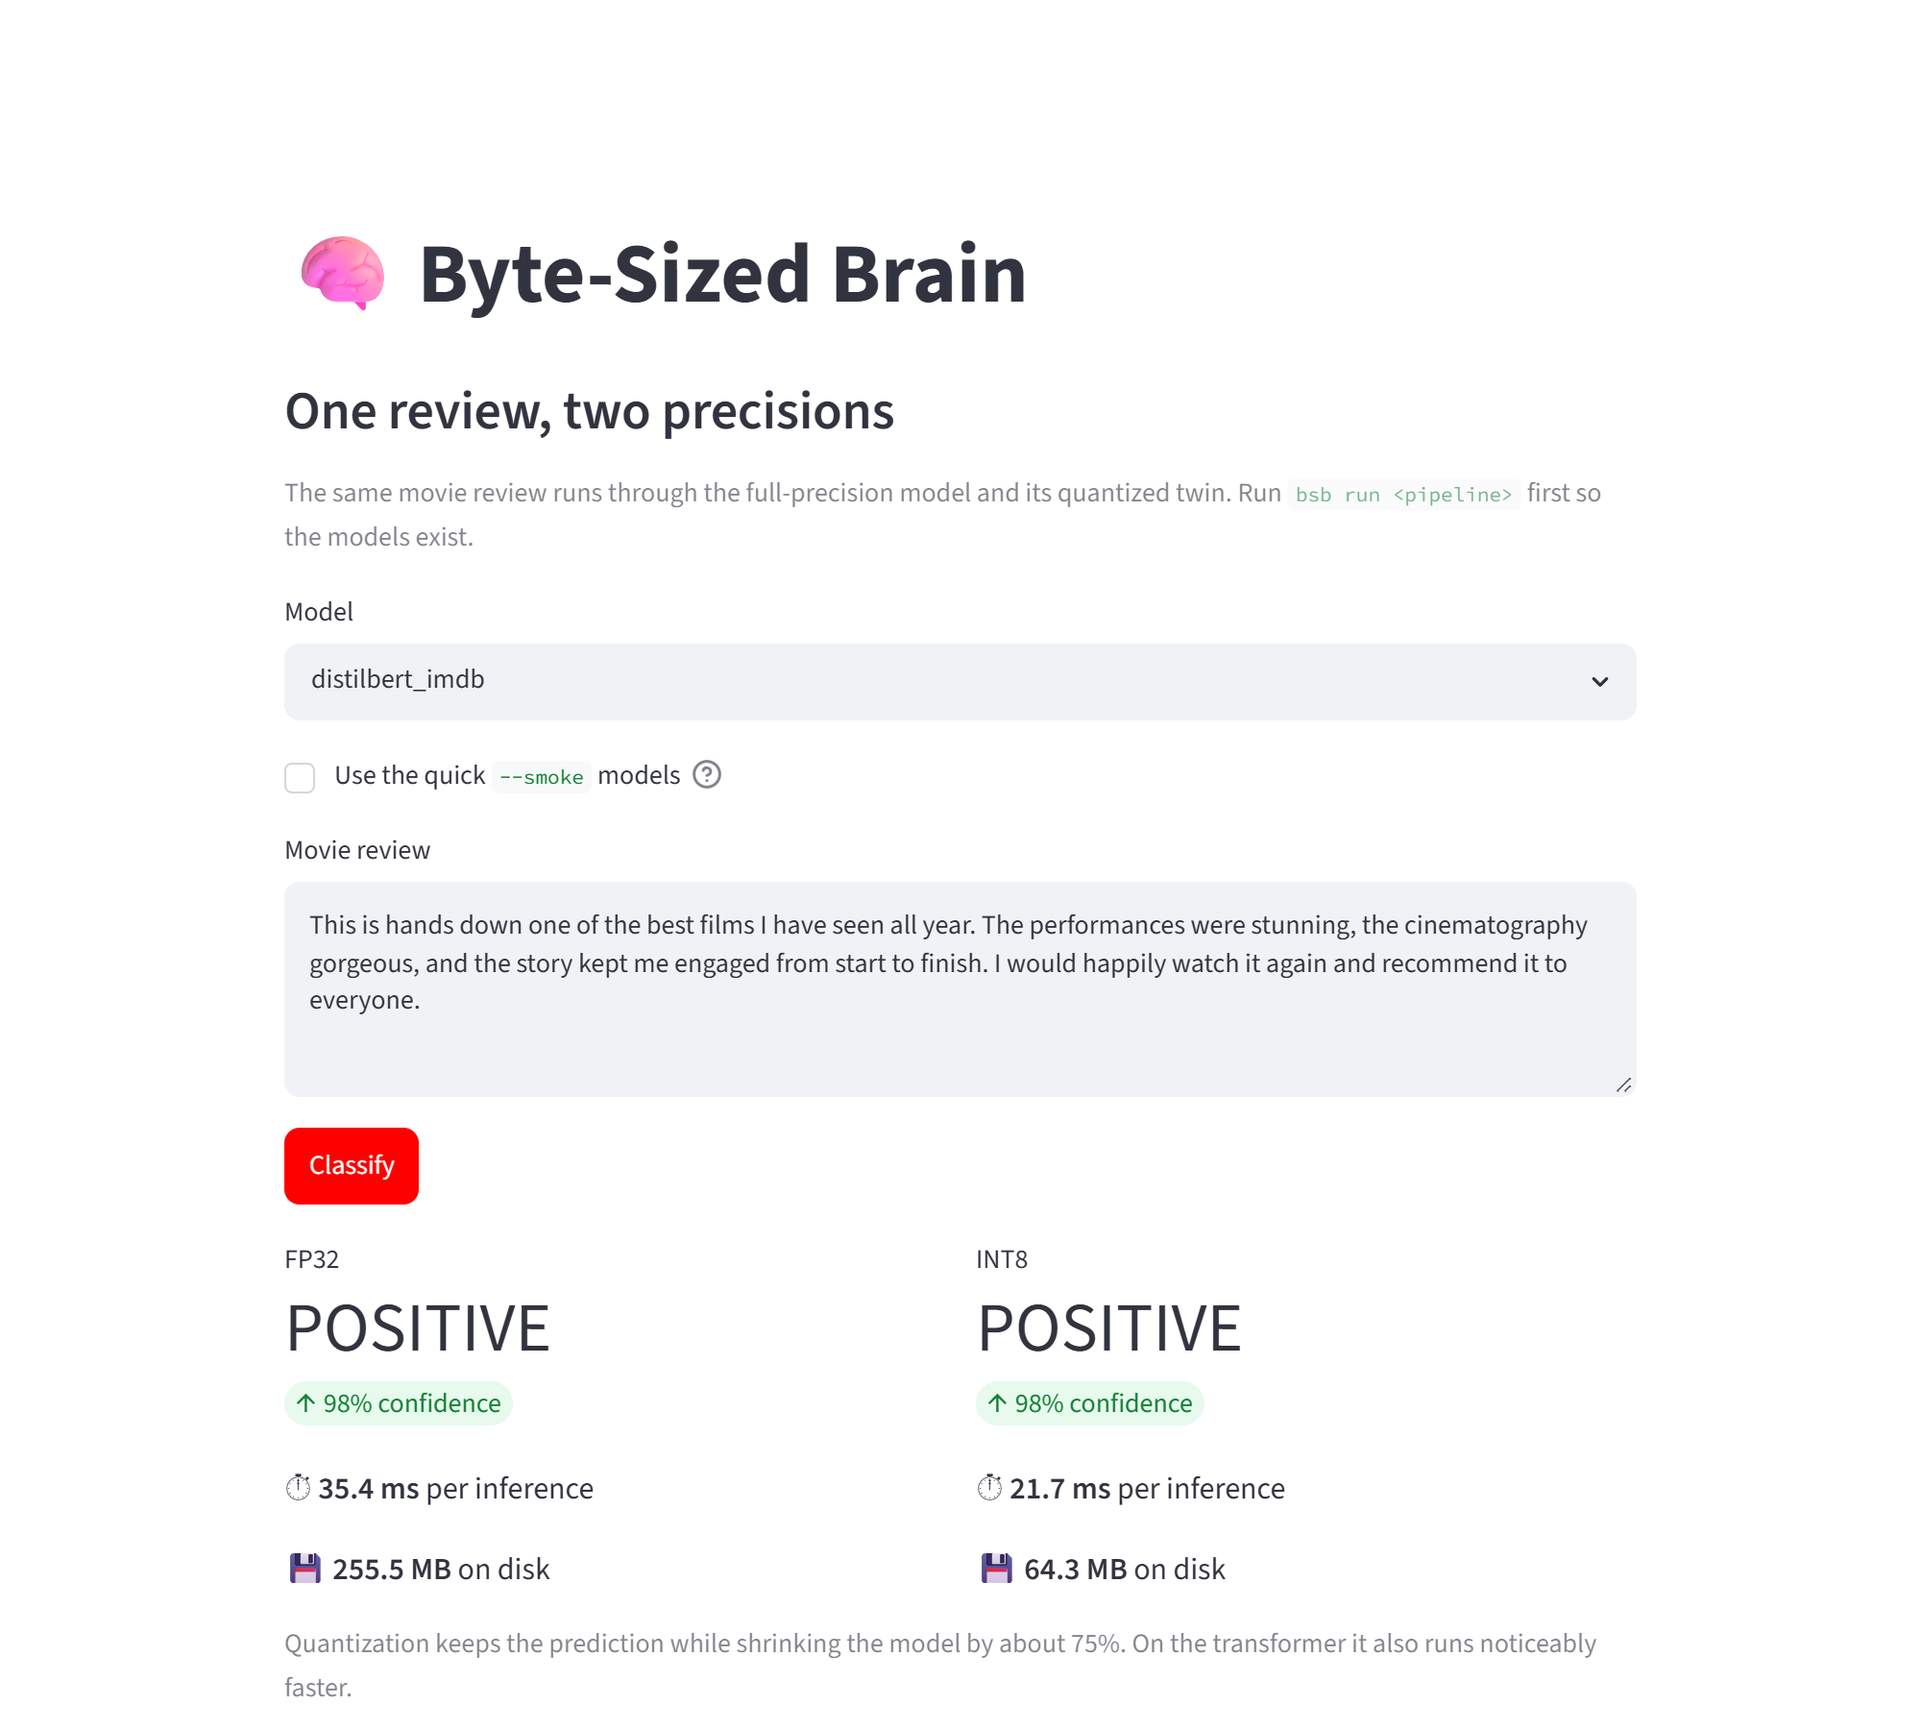
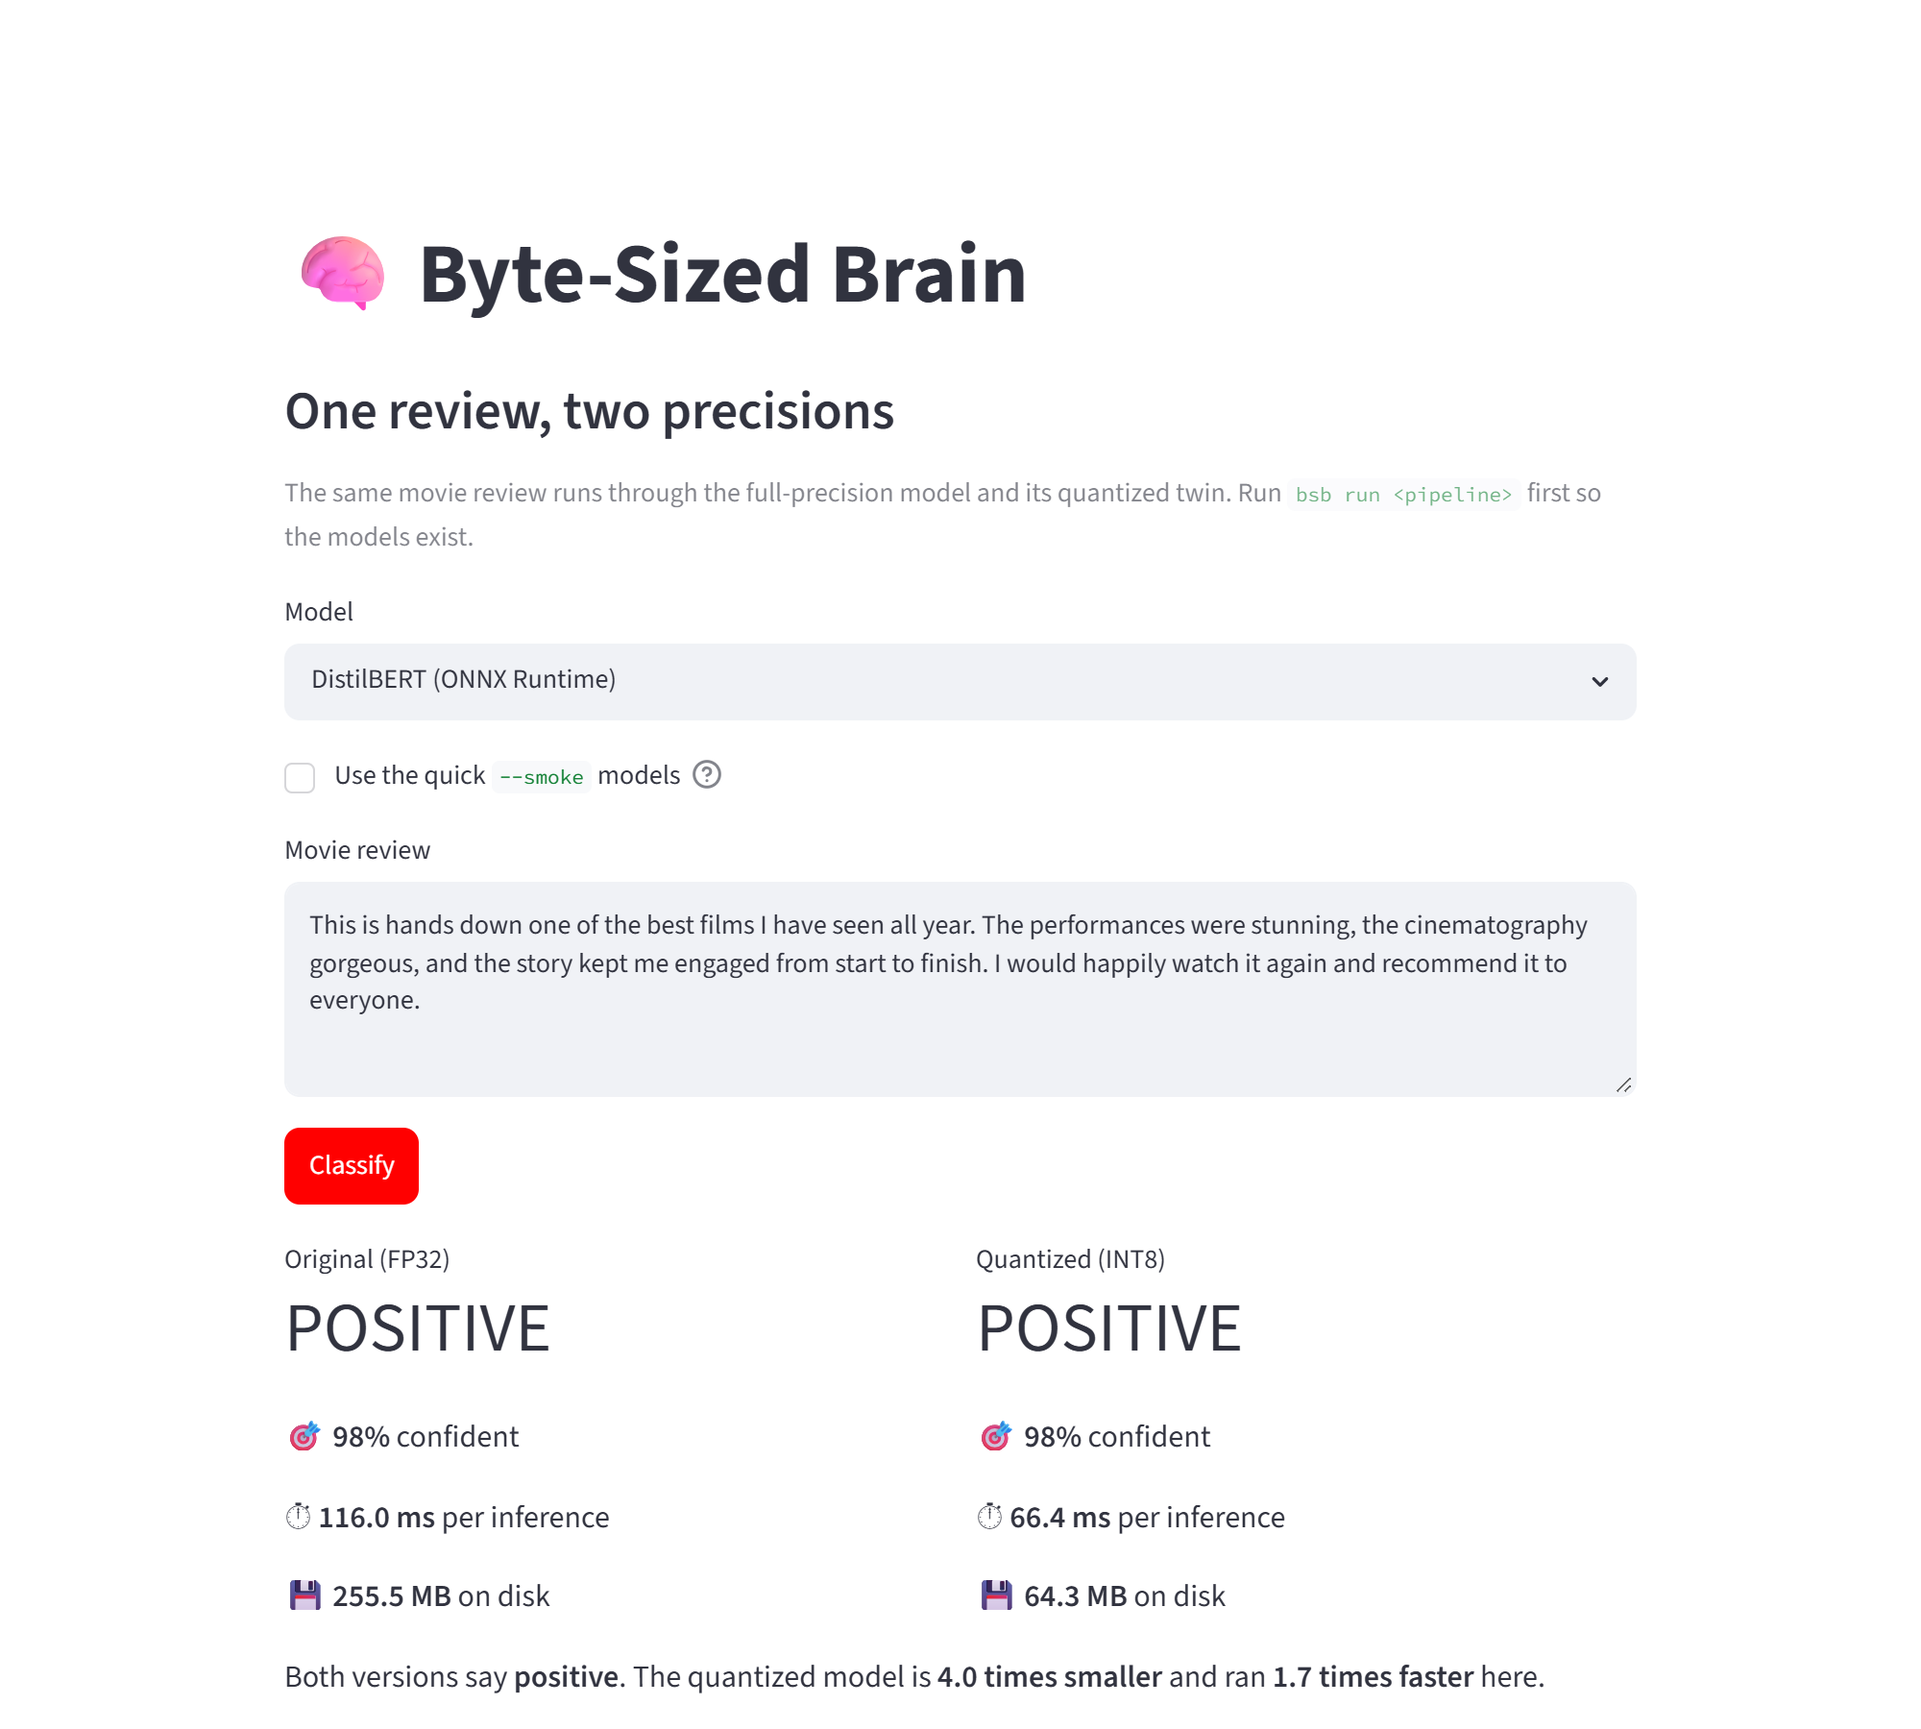
Fix the docs deploy gate and address the verification findings
- Deploy the documentation site from main. The deploy step was still
  gated on the old branch name, so the site had not updated since the
  rename.
- Run the ONNX round trip, memory probe and hosted-demo tests in CI,
  where they were silently skipped, and fail the job on any skip.
- Streamlit demo: describe the result it actually got, cache the loaded
  models between clicks and show readable model names.
- Treat timing differences under 15 percent as 'about the same' in the
  README table, matching the run-to-run variation.
- Show the hosted demo screenshot next to its link, and explain why the
  CLI demo timings differ from the benchmark table.

diff --git a/demo/app.py b/demo/app.py
@@ -1,9 +1,9 @@
-"""Streamlit FP32-vs-INT8 sentiment demo.
+"""Streamlit demo: one movie review, classified by a model and its quantized version.
 
 Usage::
 
     pip install -e ".[all,demo]"
-    bsb run distilbert_imdb          # produce the artifacts the demo loads
+    bsb run distilbert_imdb          # produce the models the demo loads
     streamlit run demo/app.py
 """
 
@@ -11,9 +11,43 @@ from __future__ import annotations
 
 import streamlit as st
 
-from byte_sized_brain.demo import DEFAULT_TEXTS, SUPPORTED, run_demo
+from byte_sized_brain.demo import DEFAULT_TEXTS, SUPPORTED, DemoRow, run_demo
 
-st.set_page_config(page_title="Byte-Sized Brain: FP32 vs INT8", page_icon="🧠")
+MODEL_NAMES = {
+    "distilbert_imdb": "DistilBERT (ONNX Runtime)",
+    "rnn_imdb": "LSTM (TensorFlow Lite)",
+}
+VARIANT_NAMES = {
+    "fp32": "Original (FP32)",
+    "int8": "Quantized (INT8)",
+    "dynamic_range": "Quantized (INT8 weights)",
+}
+
+
+def summarize(rows: list[DemoRow]) -> str:
+    """One sentence describing what this run actually showed."""
+    if len(rows) < 2:
+        return "Only one version of this model was found, so there is nothing to compare."
+    original, quantized = rows[0], rows[1]
+    verdict = (
+        f"Both versions say **{original.prediction.lower()}**."
+        if original.prediction == quantized.prediction
+        else f"The versions disagree. The original says **{original.prediction.lower()}** "
+        f"and the quantized one says **{quantized.prediction.lower()}**, which can happen "
+        "on a borderline review."
+    )
+    smaller = original.size_mb / quantized.size_mb
+    speed = original.latency_ms / quantized.latency_ms
+    if speed >= 1.15:
+        pace = f"ran **{speed:.1f} times faster**"
+    elif speed <= 0.85:
+        pace = f"ran **{1 / speed:.1f} times slower**"
+    else:
+        pace = "took **about the same time**"
+    return f"{verdict} The quantized model is **{smaller:.1f} times smaller** and {pace} here."
+
+
+st.set_page_config(page_title="Byte-Sized Brain demo", page_icon="🧠")
 st.title("🧠 Byte-Sized Brain")
 st.subheader("One review, two precisions")
 st.caption(
@@ -21,7 +55,7 @@ st.caption(
     "twin. Run `bsb run <pipeline>` first so the models exist."
 )
 
-pipeline = st.selectbox("Model", SUPPORTED, index=0)
+pipeline = st.selectbox("Model", SUPPORTED, index=0, format_func=lambda p: MODEL_NAMES.get(p, p))
 smoke = st.checkbox(
     "Use the quick `--smoke` models",
     value=False,
@@ -34,17 +68,17 @@ if st.button("Classify", type="primary"):
         st.warning("Type a review first.")
         st.stop()
     try:
-        rows = run_demo(pipeline, [text], smoke=smoke)
+        with st.spinner("Running both versions..."):
+            rows = run_demo(pipeline, [text], smoke=smoke)
     except FileNotFoundError as exc:
         st.error(str(exc))
         st.stop()
 
     for col, row in zip(st.columns(len(rows)), rows, strict=True):
         with col:
-            st.metric(row.variant.upper(), row.prediction, f"{row.confidence:.0%} confidence")
+            st.metric(VARIANT_NAMES.get(row.variant, row.variant), row.prediction)
+            st.write(f"🎯 **{row.confidence:.0%}** confident")
             st.write(f"⏱ **{row.latency_ms:.1f} ms** per inference")
             st.write(f"💾 **{row.size_mb:.1f} MB** on disk")
-    st.caption(
-        "Quantization keeps the prediction while shrinking the model by about 75%. "
-        "On the transformer it also runs noticeably faster."
-    )
+    st.markdown(summarize(rows))
+    st.caption("Timings are the fastest of several runs and vary with machine load.")

diff --git a/src/byte_sized_brain/demo.py b/src/byte_sized_brain/demo.py
@@ -11,6 +11,7 @@ Requires the artifacts to exist (run ``bsb run <pipeline>`` first, or
 
 from __future__ import annotations
 
+import functools
 import time
 from dataclasses import dataclass
 
@@ -86,15 +87,40 @@ def _encode_imdb(text: str, word_index: dict[str, int], num_words: int, max_len:
     return pad_sequences([tokens], maxlen=max_len).astype(np.float32)[0]
 
 
-def _demo_distilbert(cfg: PipelineConfig, paths: Paths, texts: list[str]) -> list[DemoRow]:
-    from transformers import AutoTokenizer
-
+@functools.lru_cache(maxsize=8)
+def _onnx_runner(path: str):
     from .benchmark import OnnxRunner
 
-    tokenizer = AutoTokenizer.from_pretrained(paths.fp32_source)
+    return OnnxRunner(path)
+
+
+@functools.lru_cache(maxsize=8)
+def _tflite_runner(path: str):
+    from .benchmark import TFLiteRunner
+
+    return TFLiteRunner(path)
+
+
+@functools.lru_cache(maxsize=4)
+def _tokenizer(model_dir: str):
+    from transformers import AutoTokenizer
+
+    return AutoTokenizer.from_pretrained(model_dir)
+
+
+@functools.lru_cache(maxsize=1)
+def _word_index() -> dict[str, int]:
+    from tensorflow.keras.datasets import imdb
+
+    return imdb.get_word_index()
+
+
+def _demo_distilbert(cfg: PipelineConfig, paths: Paths, texts: list[str]) -> list[DemoRow]:
+    # Loaders are cached, so the web demo does not reload the models on every click.
+    tokenizer = _tokenizer(str(paths.fp32_source))
     seq_len = cfg.data.max_len or 128
     variants = [("fp32", paths.onnx("fp32")), ("int8", paths.onnx("int8"))]
-    runners = {name: (OnnxRunner(p), size_mb(p)) for name, p in variants if p.exists()}
+    runners = {name: (_onnx_runner(str(p)), size_mb(p)) for name, p in variants if p.exists()}
 
     rows: list[DemoRow] = []
     for text in texts:
@@ -114,16 +140,12 @@ def _demo_distilbert(cfg: PipelineConfig, paths: Paths, texts: list[str]) -> lis
 
 
 def _demo_rnn(cfg: PipelineConfig, paths: Paths, texts: list[str]) -> list[DemoRow]:
-    from tensorflow.keras.datasets import imdb
-
-    from .benchmark import TFLiteRunner
-
     num_words = cfg.data.num_words or 10000
     max_len = cfg.data.max_len or 200
-    word_index = imdb.get_word_index()
+    word_index = _word_index()
 
     variants = [("fp32", paths.tflite("fp32")), ("dynamic_range", paths.tflite("dynamic_range"))]
-    runners = {name: (TFLiteRunner(p), size_mb(p)) for name, p in variants if p.exists()}
+    runners = {name: (_tflite_runner(str(p)), size_mb(p)) for name, p in variants if p.exists()}
 
     rows: list[DemoRow] = []
     for text in texts:

diff --git a/src/byte_sized_brain/report.py b/src/byte_sized_brain/report.py
@@ -137,11 +137,15 @@ def _fmt_ms(x: float) -> str:
 
 
 def _speed_words(fp32_ms: float, q_ms: float) -> str:
-    """'1.7× faster', '1.5× slower' or 'about the same' (within 5 percent)."""
+    """'1.7× faster', '1.5× slower' or 'about the same'.
+
+    Anything within 15 percent counts as the same, because single-run timings on a
+    laptop move by that much from one run to the next.
+    """
     if not fp32_ms or not q_ms:
         return "n/a"
     ratio = fp32_ms / q_ms
-    if 0.95 <= ratio <= 1.05:
+    if 0.85 <= ratio <= 1.15:
         return "about the same"
     return f"{ratio:.1f}× faster" if ratio > 1 else f"{1 / ratio:.1f}× slower"
 

diff --git a/src/byte_sized_brain/models/distilbert.py b/src/byte_sized_brain/models/distilbert.py
@@ -1,6 +1,6 @@
 """DistilBERT fine-tuning for IMDB sentiment.
 
-Targets transformers 4.45+ where ``evaluation_strategy`` is now ``eval_strategy``
+Targets transformers 4.46+ where ``evaluation_strategy`` is now ``eval_strategy``
 and ``Trainer(tokenizer=...)`` is now ``processing_class=...``. ``fp16`` is forced
 off (this runs on CPU), TensorBoard logging is disabled (``report_to=[]``) so no
 ``runs/`` scratch is created, and the final model + tokenizer are saved to

diff --git a/README.md b/README.md
@@ -43,7 +43,8 @@ shows where that loss comes from and how to avoid nearly all of it.
 
 **Speed depended on the model.** On a laptop processor, DistilBERT and the tiny
 handwriting reader both answered about 1.8 times faster. The LSTM and the photo
-classifier were about 10 percent slower. Smaller does not automatically mean faster.
+classifier took about the same time as before (within the normal run-to-run
+variation). Smaller does not automatically mean faster.
 
 Each row below compares the original model with its shrunken version.
 
@@ -52,8 +53,8 @@ Each row below compares the original model with its shrunken version.
 | Model (dataset) | Method | Size on disk | Accuracy | Time per input | Memory |
 | --- | --- | --- | --- | --- | --- |
 | Digit reader (MNIST) | Static INT8 | 0.39 → 0.10 MB (74% smaller) | 97.0% → 97.0% (no change) | 0.022 → 0.012 ms (1.8× faster) | 1.97 → 1.39 MB |
-| Photo classifier (CIFAR-10) | Static INT8 | 8.52 → 2.62 MB (69% smaller) | 85.4% → 68.1% (-17.3 pts) | 1.99 → 2.14 ms (1.1× slower) | 20.1 → 7.53 MB |
-| Review sentiment, LSTM (IMDB) | Dynamic INT8 | 2.50 → 0.63 MB (75% smaller) | 85.0% → 85.0% (no change) | 0.54 → 0.61 ms (1.1× slower) | 4.01 → 2.19 MB |
+| Photo classifier (CIFAR-10) | Static INT8 | 8.52 → 2.62 MB (69% smaller) | 85.4% → 68.1% (-17.3 pts) | 1.99 → 2.14 ms (about the same) | 20.1 → 7.53 MB |
+| Review sentiment, LSTM (IMDB) | Dynamic INT8 | 2.50 → 0.63 MB (75% smaller) | 85.0% → 85.0% (no change) | 0.54 → 0.61 ms (about the same) | 4.01 → 2.19 MB |
 | Review sentiment, DistilBERT (IMDB) | Dynamic INT8 | 255.5 → 64.3 MB (75% smaller) | 84.6% → 84.0% (-0.6 pts) | 99.1 → 54.5 ms (1.8× faster) | 275.4 → 88.0 MB |
 
 _Each cell reads original (FP32) → quantized (INT8). Time is the average for one input on a native x86_64 CPU, and memory is what the process gains by loading and running the model, so lower is better for both. Generated by `bsb report` from `benchmarks/results/*.csv`, which also record p50 and p95 latency. The per-variant table is in [docs/report.md](docs/report.md)._
@@ -93,7 +94,7 @@ shows each one's verdict, confidence, speed and size. It is hosted on a free Hug
 Face server that sleeps when nobody is using it, so the first visit can take a minute
 to wake up.
 
-![One movie review classified by the original and the 8-bit model](docs/images/streamlit_demo.png)
+![The hosted demo classifying one review with the original and the 8-bit model](docs/images/hosted_demo.png)
 
 ## The four models
 
@@ -176,9 +177,16 @@ bsb demo distilbert_imdb          # built-in example reviews, or pass your own i
   int8          POSITIVE    97.5%    19.78ms   64.27MB
 ```
 
-The demo shows the best of several timings for a single review, so its numbers are
-lower than the benchmark averages in the table above. A local web version of the demo
-is `pip install -e ".[all,demo]"` followed by `streamlit run demo/app.py`.
+These timings are much lower than the table above (about 30 ms against 99 ms for the
+original model) because the two are measured differently. The demo reports the single
+fastest of 15 runs on one review, while the benchmark reports the average over 500
+different reviews, slow runs included, on a machine that was busier at the time. The
+ratio between the two versions is what carries over.
+
+A local web version of the demo is `pip install -e ".[all,demo]"` followed by
+`streamlit run demo/app.py`.
+
+![The local Streamlit demo](docs/images/streamlit_demo.png)
 
 ## How it works
 
@@ -235,8 +243,8 @@ The [methodology](docs/methodology.md) covers each choice in detail.
 
 Phones, Raspberry Pis and many cloud servers use ARM processors. Every number above is
 from x86, and no ARM results are committed yet. What exists today is the tooling.
-CI runs the test suite and the TensorFlow Lite conversion on a real ARM64 machine on
-every push, and a Docker image runs all four models under ARM emulation.
+CI runs the test suite and the TensorFlow Lite conversion on a real ARM64 machine for
+every change to `main` and every pull request, and a Docker image runs all four models under ARM emulation.
 
 ```bash
 make docker-build-arm   # build an ARM (aarch64) Docker image, emulated with QEMU

diff --git a/CHANGELOG.md b/CHANGELOG.md
@@ -4,6 +4,22 @@ All notable changes to this project are recorded here. The format follows
 [Keep a Changelog](https://keepachangelog.com/), and the project aims to follow
 semantic versioning.
 
+## [Unreleased]
+
+### Changed
+- The README table calls a timing difference under 15 percent "about the same",
+  which matches the run-to-run variation of the measurements.
+- The Streamlit demo describes the result it actually got, keeps the models loaded
+  between clicks and shows readable model names.
+- CI now runs the ONNX round trip, memory probe and hosted-demo tests, which were
+  previously skipped there.
+
+### Fixed
+- The documentation site deploys from `main` again. The deploy step was still tied
+  to the old branch name, so the site had not updated since the rename.
+- The README shows the hosted demo next to its link, and the local Streamlit app
+  next to its own instructions.
+
 ## [0.3.0] - 2026-10-05
 
 ### Added
@@ -42,7 +58,7 @@ unchanged.
 - `bsb demo --smoke`, `make check`, `make smoke-all`, `make ablation-cnn` and `make docs`.
 - A plain-language results table in the README, including memory.
 - Tests for the CLI, the memory probe, the ONNX round trip, CNN fine-tuning, the hosted
-  demo and report generation.
+  demo and the README results table.
 - `.editorconfig`, a pre-commit configuration, Dependabot, `CITATION.cff` and explicit
   line-ending rules.
 

diff --git a/docs/methodology.md b/docs/methodology.md
@@ -100,11 +100,11 @@ Flex delegate.
 ## 3. Running on ARM64
 
 All committed results are from x86. The project offers three ways to exercise ARM64,
-and none of them needs special hardware.
+and the first two need no ARM hardware at all.
 
 ### Continuous integration on native ARM64
 
-On every push, CI runs the fast tests and the TensorFlow Lite conversion and smoke
+On every push to `main` and every pull request, CI runs the fast tests and the TensorFlow Lite conversion and smoke
 pipelines on GitHub's native ARM64 runners as well as on x86. This shows the code and
 the conversions work on ARM. It produces no published benchmark numbers.
 
